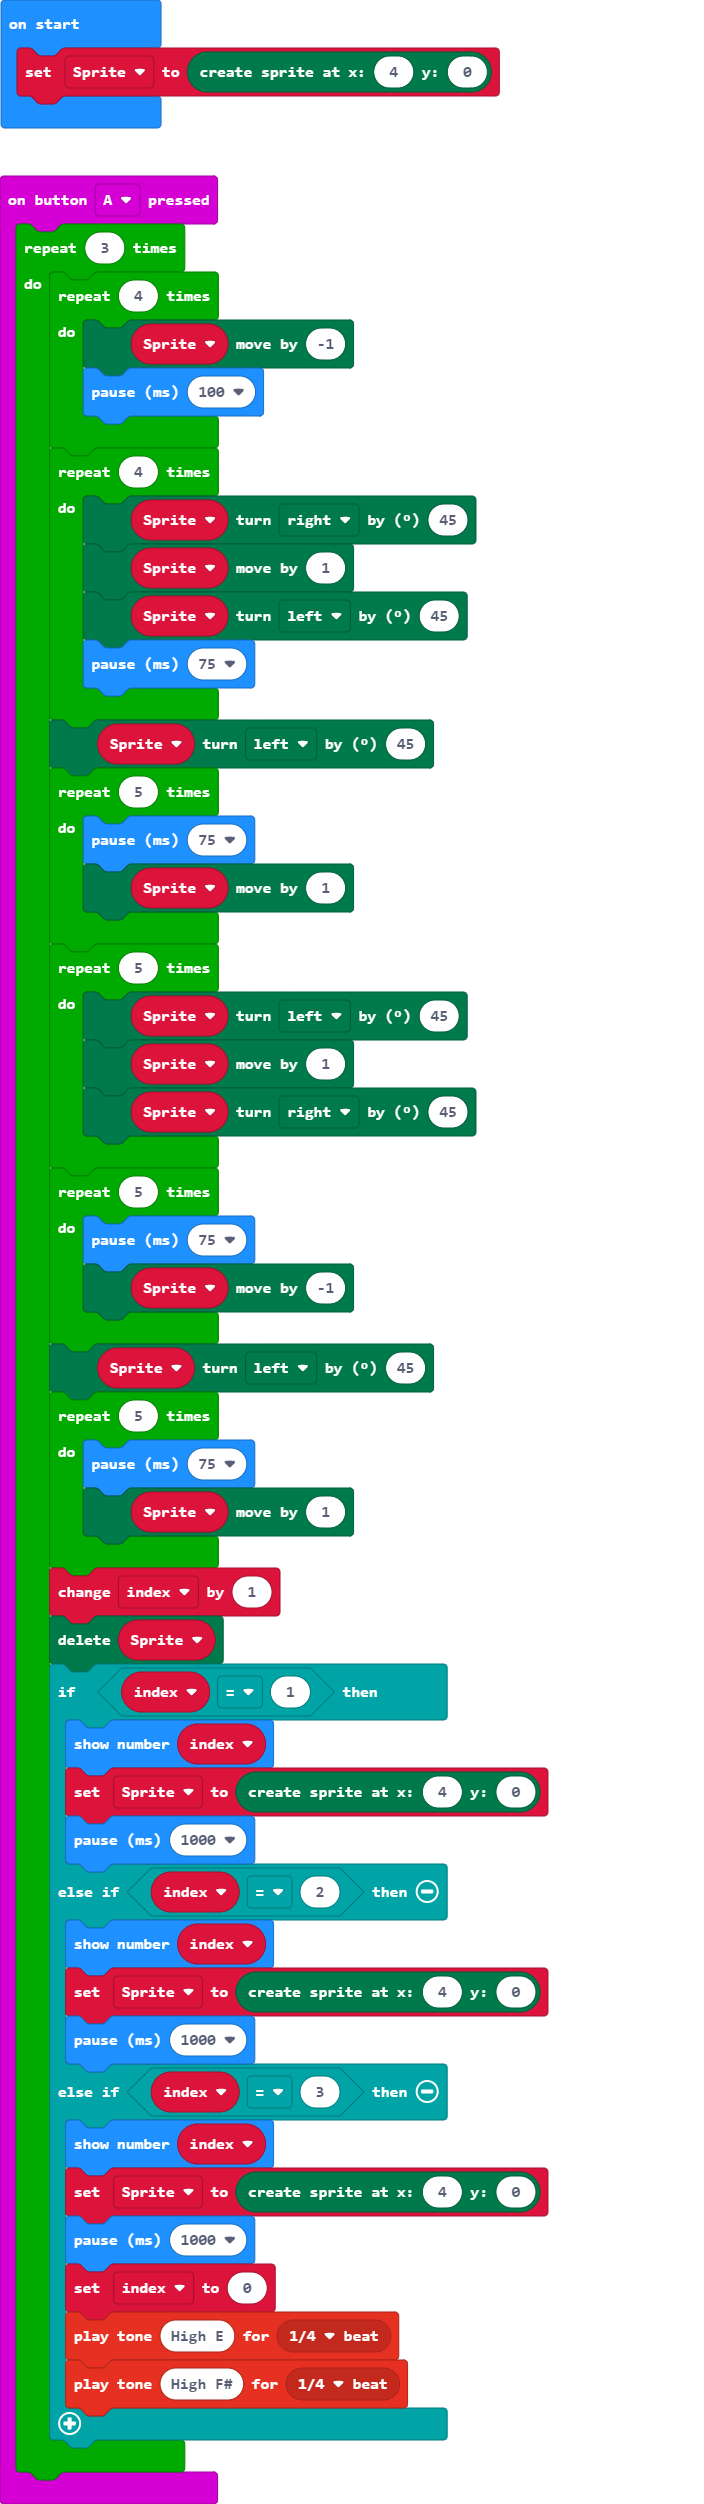
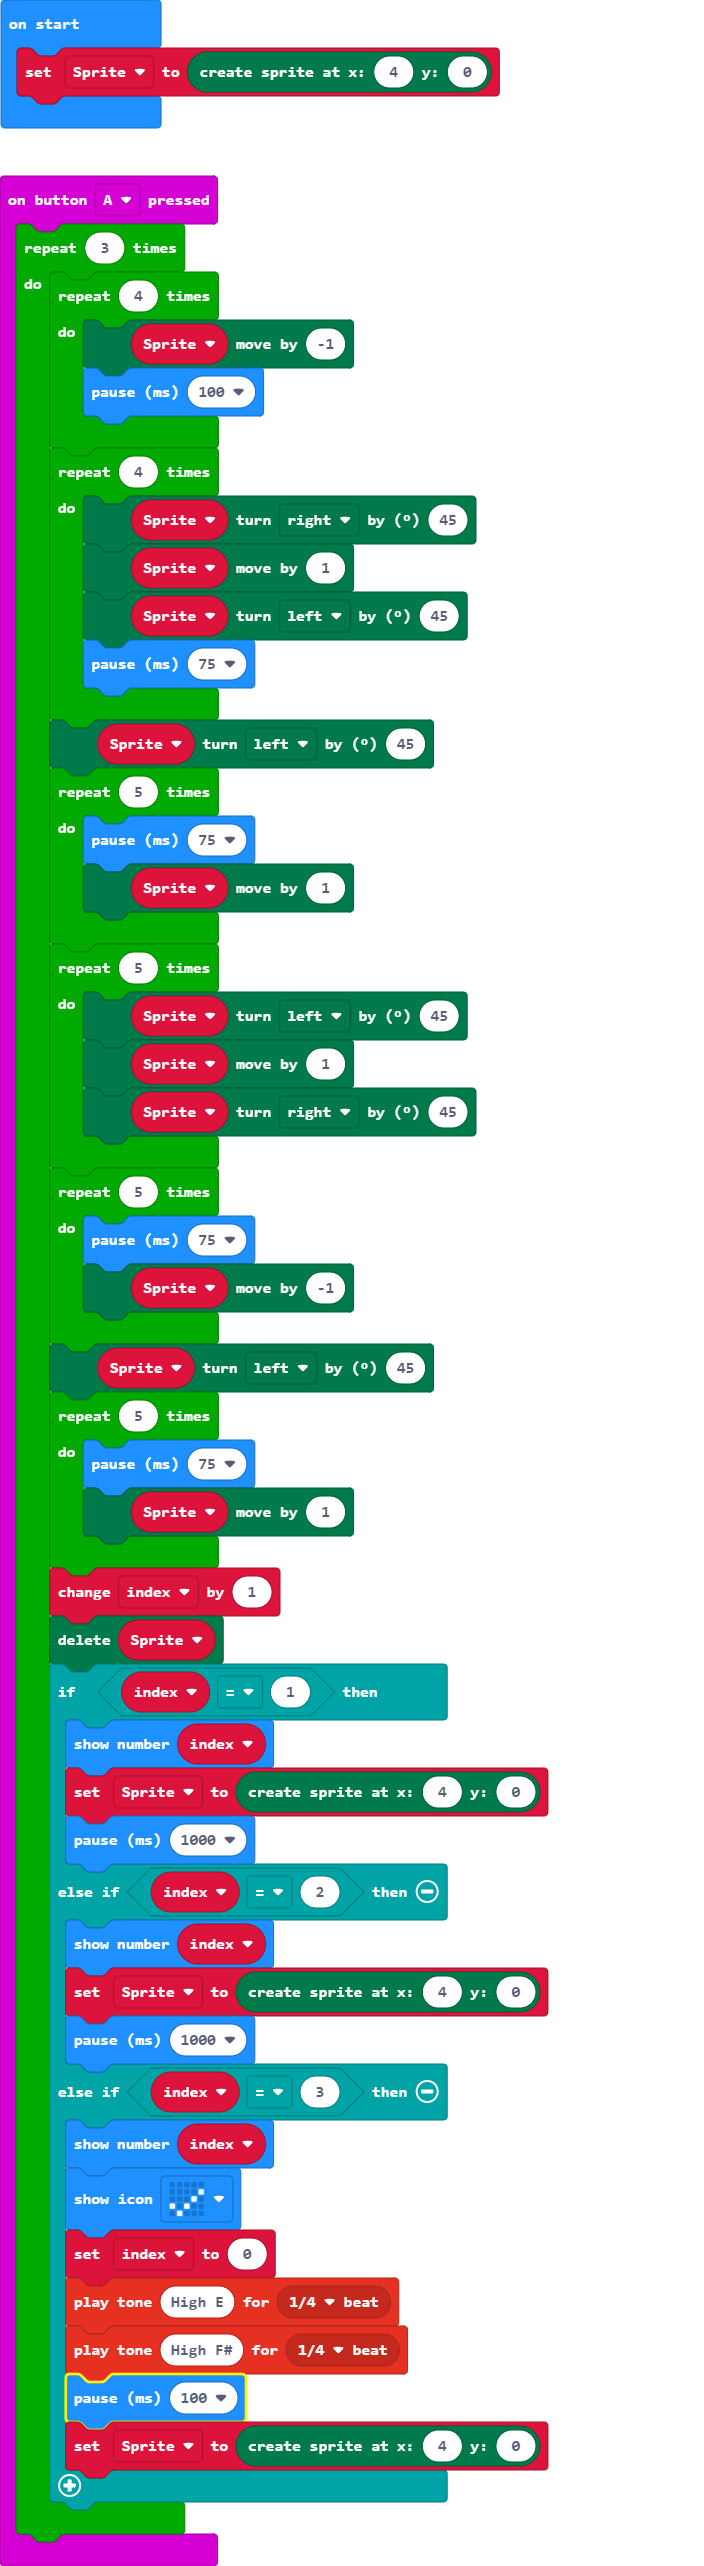
Update main.blocks, main.ts

Changed region(s): [[0.0, 0.0, 0.7812, 0.9968]]

diff --git a/main.ts b/main.ts
@@ -41,11 +41,12 @@ input.onButtonPressed(Button.A, function () {
             basic.pause(1000)
         } else if (index == 3) {
             basic.showNumber(index)
-            Sprite = game.createSprite(4, 0)
-            basic.pause(1000)
+            basic.showIcon(IconNames.Yes)
             index = 0
             music.playTone(659, music.beat(BeatFraction.Quarter))
             music.playTone(740, music.beat(BeatFraction.Quarter))
+            basic.pause(100)
+            Sprite = game.createSprite(4, 0)
         }
     }
 })
